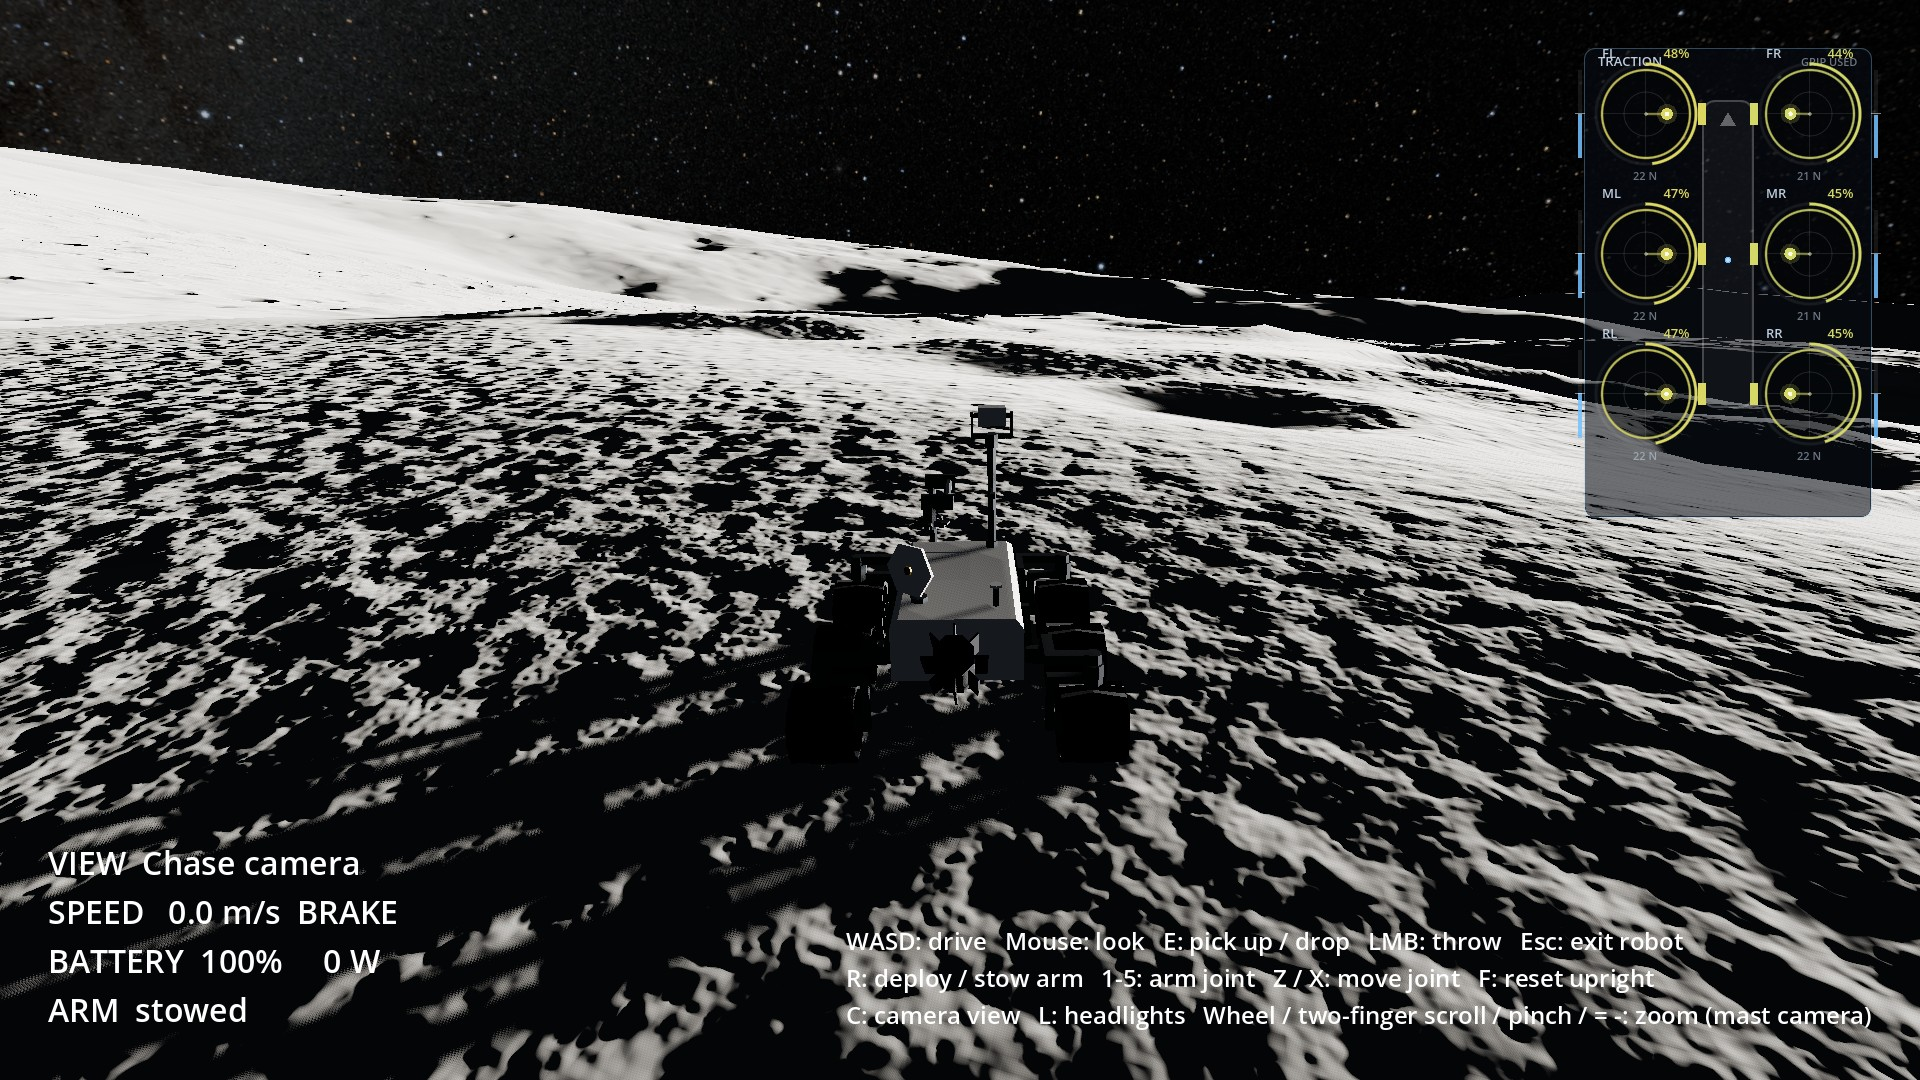
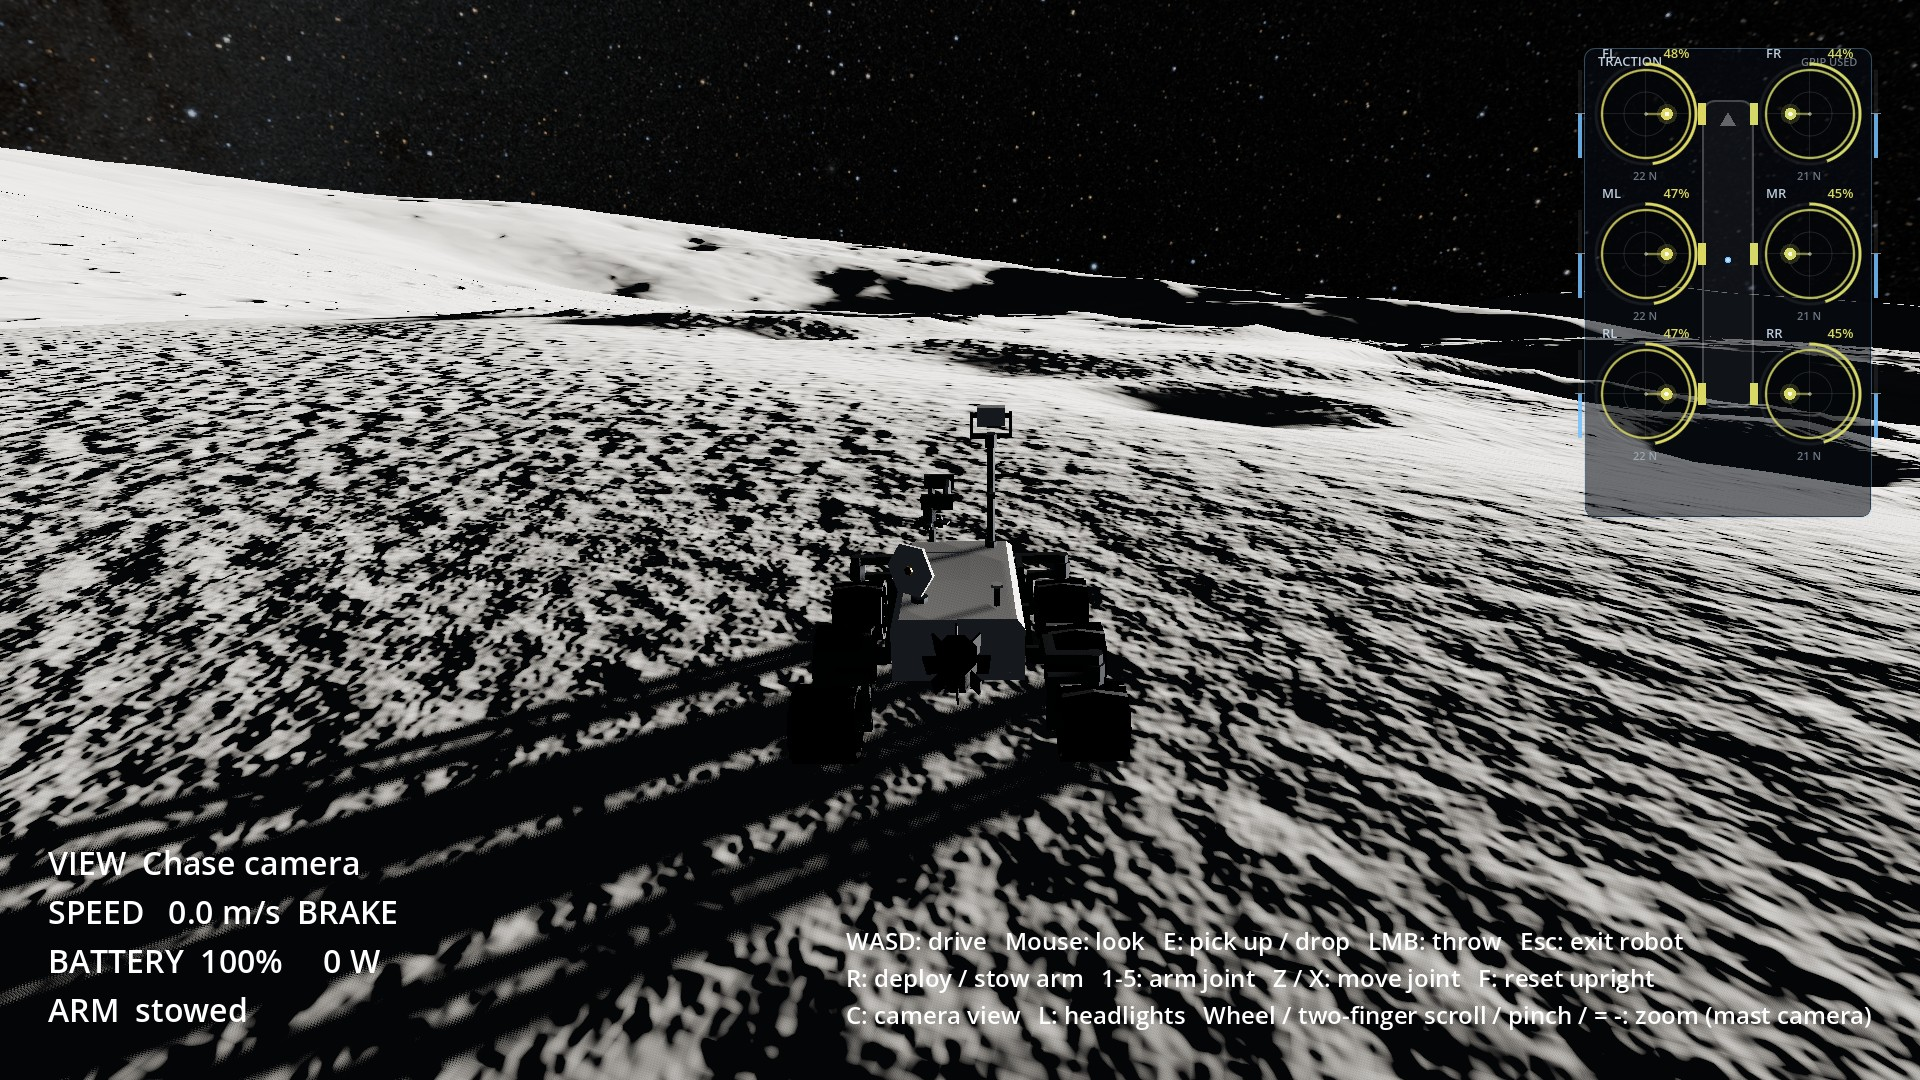
Terrain Detail Low turns off the ground detail's shadows; ignore .DS_Store
The regolith shader's detail relief casts its own shadows through a short march towards the sun
(0.5-1.2 ms a frame on an M4). At Settings > Video > Terrain Detail Low, MoonTerrain sets the
shader's new detail_shadows off, keeping the relief's normals, so weaker GPUs save that cost.
test_terrain checks the setting at both details; low-detail previews re-rendered.

diff --git a/game/README.md b/game/README.md
@@ -405,7 +405,7 @@ Built by `tools/terrain/build_moon_terrain.py` from NASA LOLA data (sources, met
 
 - **Collision:** the play tier as one `HeightMapShape3D` (`Terrain/Ground`, layer 1), built in `_ready` so nothing falls through; rocks of 0.2 m and up as convex shapes (`Terrain/Rocks/RockCollision`, 1668 of 9427), so the wheels climb them. Nothing outside the play tier collides; the boundary keeps everything in (below).
 - **Meshes:** 64 x 64-cell chunks per tier (1400) with automatic LODs; each outer tier leaves out exactly the cells under the inner one and hangs skirts (2 / 40 / 400 m) from its edge. Triangles split like Jolt's heightfield, from (1,0) to (0,1) (the other diagonal is up to 2.5 cm off, enough to fail the wheel checks). Only the play and near tiers cast shadows. Built by low-priority worker tasks that only compute arrays and LODs (cached in `user://terrain_cache/`, written to a temporary file and renamed); the main thread turns 48 a frame into meshes. **Workers must not touch the RenderingServer or take every thread:** Jolt runs its physics jobs on the same pool, and the first version (high-priority tasks calling `ImporterMesh.get_mesh()` and `ResourceSaver.save`) deadlocked: the main thread waited in the physics step for Jolt's jobs, the workers waited for the main thread, and the loading screen stayed up for good. First load about 4.5 s (meshes 2.5-3.7 s), later 1-2.5 s. Not built headless (`build_meshes_headless` for tests).
-- **Detail setting:** `GraphicsSettings.terrain_detail` (Settings > Video > Terrain Detail, saved in `user://settings.cfg`, used at the next level load; `-- terrain_detail=low` on the command line): Low uses every other play sample (1 m) for both mesh and collision, so the wheels always stand on what is drawn.
+- **Detail setting:** `GraphicsSettings.terrain_detail` (Settings > Video > Terrain Detail, saved in `user://settings.cfg`, used at the next level load; `-- terrain_detail=low` on the command line): Low uses every other play sample (1 m) for both mesh and collision, so the wheels always stand on what is drawn, and turns off the detail relief's own shadows (`regolith.gdshader` `detail_shadows`; its normals stay), which cost 0.5-1.2 ms a frame on the M4 against relief drawn through normals alone (Frame rate under Moon sky and lighting); on that machine both settings sit near the display's 120 fps.
 - **Material** (`regolith.gdshader`, procedural, no photo textures): grey albedo mottled at 120 / 15 / 2 m, brighter on steep slopes and around fresh craters; Lommel-Seeliger light with a mild opposition surge instead of Lambert, no specular; the sun (the directional light) is dimmed per vertex where the horizon map says distant terrain hides it, beyond the shadow cascades' 500 m. `LunarSky.sun_changed` keeps the shader's sun direction current.
 - **Detail relief** (below the mesh's 1 m): the pipeline's roughness spectrum (Hurst 0.9, 3 degrees RMS slope from 10 m to 1 m) carried on down to 3 cm, as four value-noise octaves (periods 0.3 / 0.15 / 0.075 / 0.0375 m, amplitudes 11 / 5.8 / 3.0 / 1.9 mm) each fitted to the RMS height and slope of one octave band of it: 5.5 mm RMS height, 5.3 degrees RMS slope in all. It is drawn through its normals (an analytic gradient) and its own shadows: a 10-step march of the height field towards the sun (6 mm to 0.7 m, stopped once the sun is fully hidden, skipped where the horizon map already hides it or the sun is above any slope the relief has) finds where a rise hides the sun, soft over the sun's 0.53 degrees; against an exact trace it shades 47% of the ground with the sun 2.1 degrees up (exact: 51%; they agree on 96%), 13.6% at 5 (15%), 1% at 9 (1%). It costs 0.5-1.2 ms a frame (below); 16 steps with finite-difference normals cost 3-4. Each octave fades out where it is finer than the pixel (the square root of the pixel's footprint area: its long side, along the line of sight at grazing angles, dropped the relief 15 m away), all of it by 60 m. On average the lit slopes make up for the shadows (rough ground catches as much sunlight as the flat ground under it: 0.99-1.02 of flat at every sun height), so nothing replaces the relief where it fades. With the sun this low about half the ground near you is in these small shadows: that is what this roughness does under a real polar sun. The relief used to be drawn through its normals alone, 2 cm bumps every 0.4 m (2.4 times the spectrum's height at that size, all the slope in one octave): under a sun lower than its slopes, every slope facing away went black in blobs on the noise grid while the ground behind it stayed lit.
 - **Boundary:** walls on collision layer 7 (Boundary) at +-500 m, 4 km tall; survey stakes every 25 m; `distance_to_boundary()` drives the HUDs' "Survey area boundary in N m" (`BoundaryHint`, within 20 m). The wheels' ground check doesn't include layer 7, so a wall is never ground. A `LostZone` 3 km down brings back anything lost (parts to the pile, rovers and the player to their spots).
